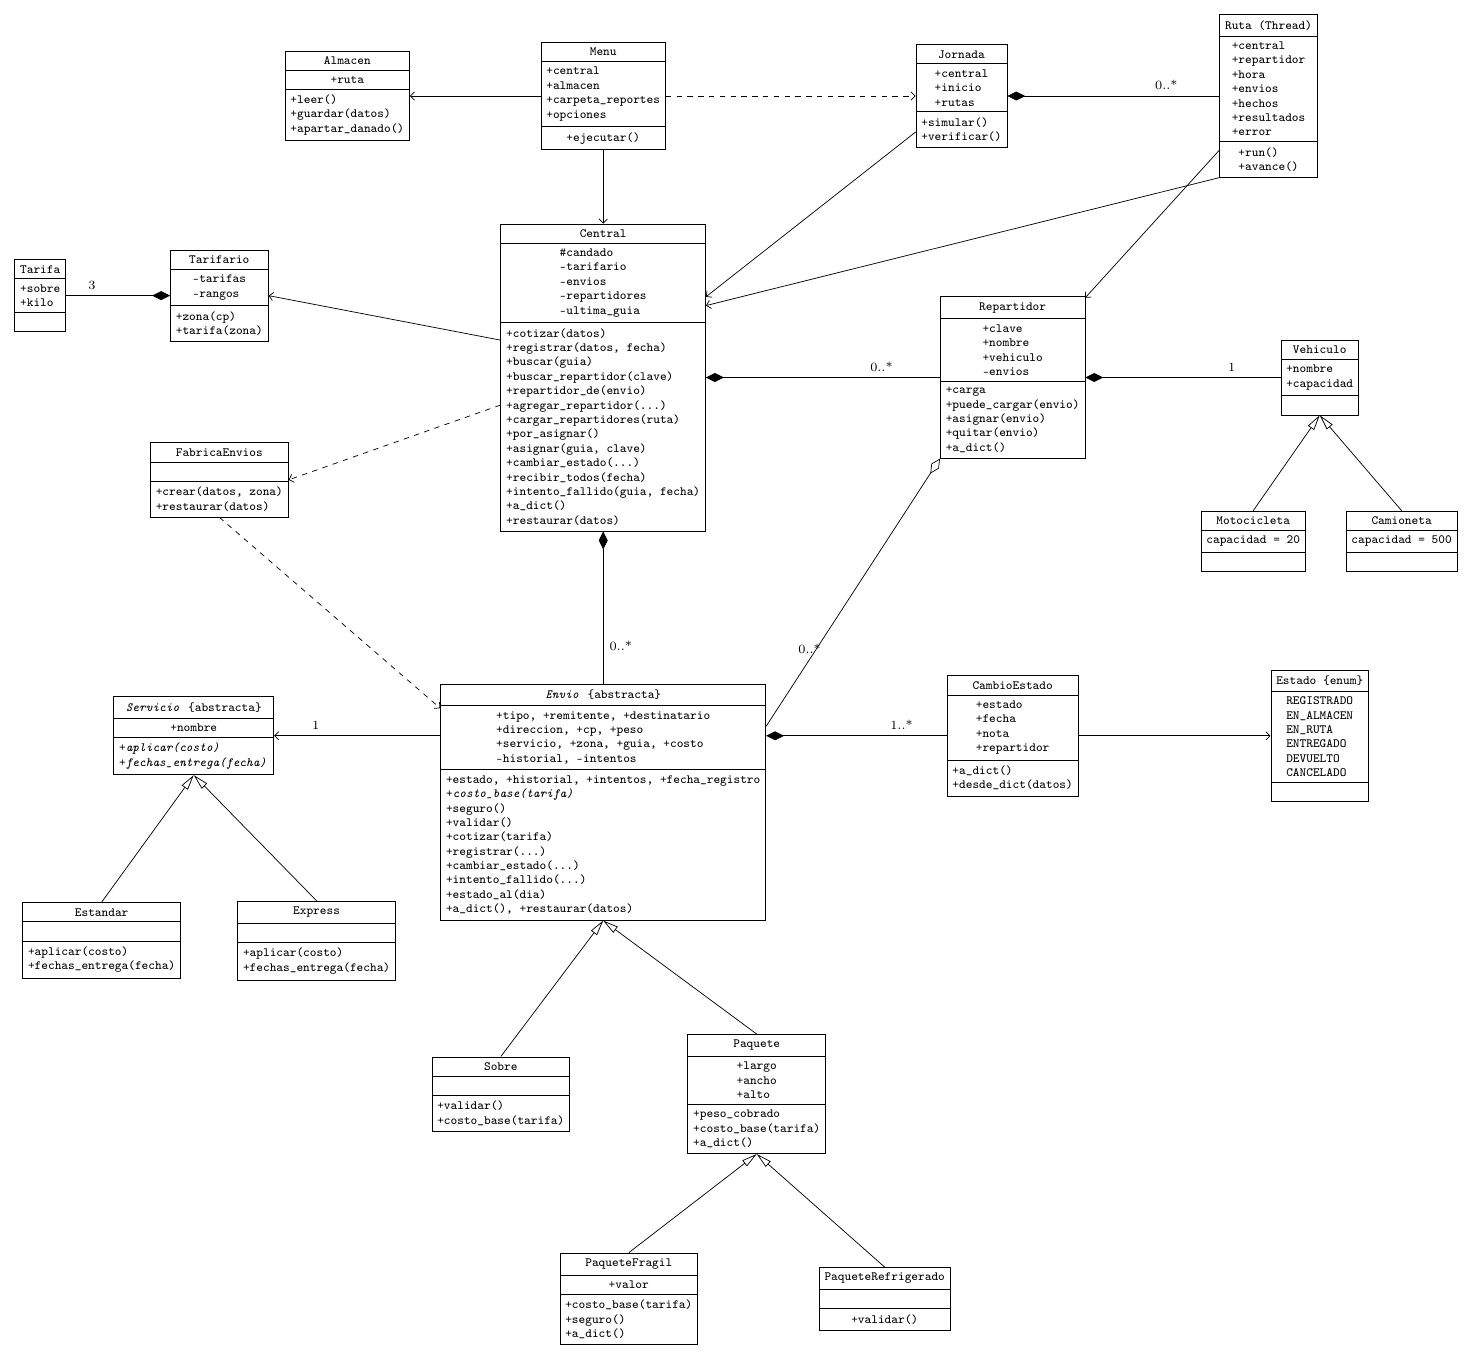
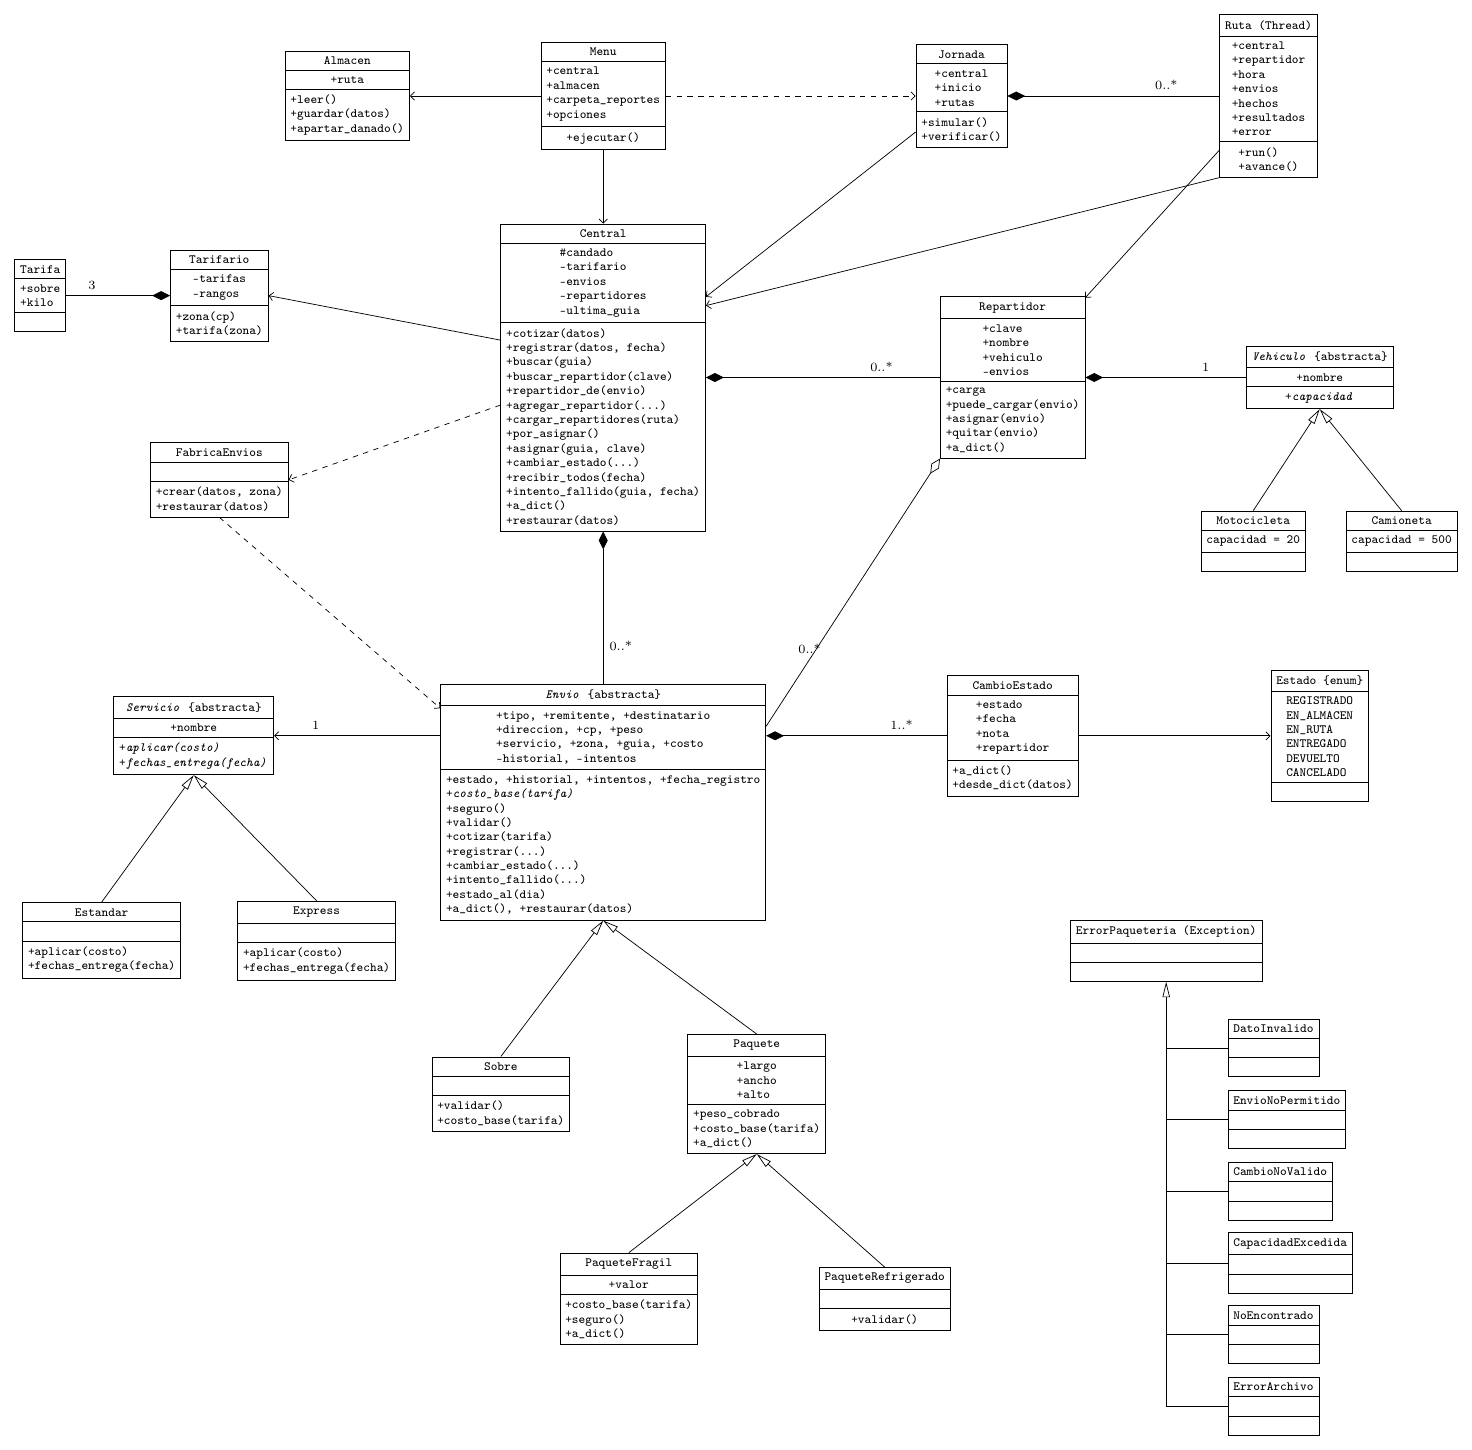
Agrega excepciones y Vehiculo abstracto al diagrama de clases

diff --git a/docs/uml/clases.tex b/docs/uml/clases.tex
@@ -23,7 +23,7 @@
 \node[clase] (jor) at (7,9.5) {\cl{Jornada}{+central\\+inicio\\+rutas}{+simular()\\+verificar()}};
 \node[clase] (rut) at (13,9.5) {\cl{Ruta (Thread)}{+central\\+repartidor\\+hora\\+envios\\+hechos\\+resultados\\+error}{+run()\\+avance()}};
 \node[clase] (rep) at (8,4) {\cl{Repartidor}{+clave\\+nombre\\+vehiculo\\-envios}{+carga\\+puede\_cargar(envio)\\+asignar(envio)\\+quitar(envio)\\+a\_dict()}};
-\node[clase] (veh) at (14,4) {\cl{Vehiculo}{+nombre\\+capacidad}{}};
+\node[clase] (veh) at (14,4) {\cl{\textit{Vehiculo} \{abstracta\}}{+nombre}{+\textit{capacidad}}};
 \node[clase] (mot) at (12.7,0.8) {\cl{Motocicleta}{capacidad = 20}{}};
 \node[clase] (cam) at (15.6,0.8) {\cl{Camioneta}{capacidad = 500}{}};
 \node[clase] (env) at (0,-4.3) {\cl{\textit{Envio} \{abstracta\}}{+tipo, +remitente, +destinatario\\+direccion, +cp, +peso\\+servicio, +zona, +guia, +costo\\-historial, -intentos}{+estado, +historial, +intentos, +fecha\_registro\\+\textit{costo\_base(tarifa)}\\+seguro()\\+validar()\\+cotizar(tarifa)\\+registrar(...)\\+cambiar\_estado(...)\\+intento\_fallido(...)\\+estado\_al(dia)\\+a\_dict(), +restaurar(datos)}};
@@ -62,5 +62,19 @@
 \draw[her] (paq.north) -- (env.south);
 \draw[her] (fra.north) -- (paq.south);
 \draw[her] (ref.north) -- (paq.south);
+\node[clase] (err) at (11,-7.2) {\cl{ErrorPaqueteria (Exception)}{}{}};
+\node[clase,anchor=west] (x0) at (12.2,-9.10) {\cl{DatoInvalido}{}{}};
+\node[clase,anchor=west] (x1) at (12.2,-10.50) {\cl{EnvioNoPermitido}{}{}};
+\node[clase,anchor=west] (x2) at (12.2,-11.90) {\cl{CambioNoValido}{}{}};
+\node[clase,anchor=west] (x3) at (12.2,-13.30) {\cl{CapacidadExcedida}{}{}};
+\node[clase,anchor=west] (x4) at (12.2,-14.70) {\cl{NoEncontrado}{}{}};
+\node[clase,anchor=west] (x5) at (12.2,-16.10) {\cl{ErrorArchivo}{}{}};
+\draw (11,-9.10) -- (x0.west);
+\draw (11,-10.50) -- (x1.west);
+\draw (11,-11.90) -- (x2.west);
+\draw (11,-13.30) -- (x3.west);
+\draw (11,-14.70) -- (x4.west);
+\draw (11,-16.10) -- (x5.west);
+\draw[her] (11,-16.10) -- (err.south);
 \end{tikzpicture}
 \end{document}
